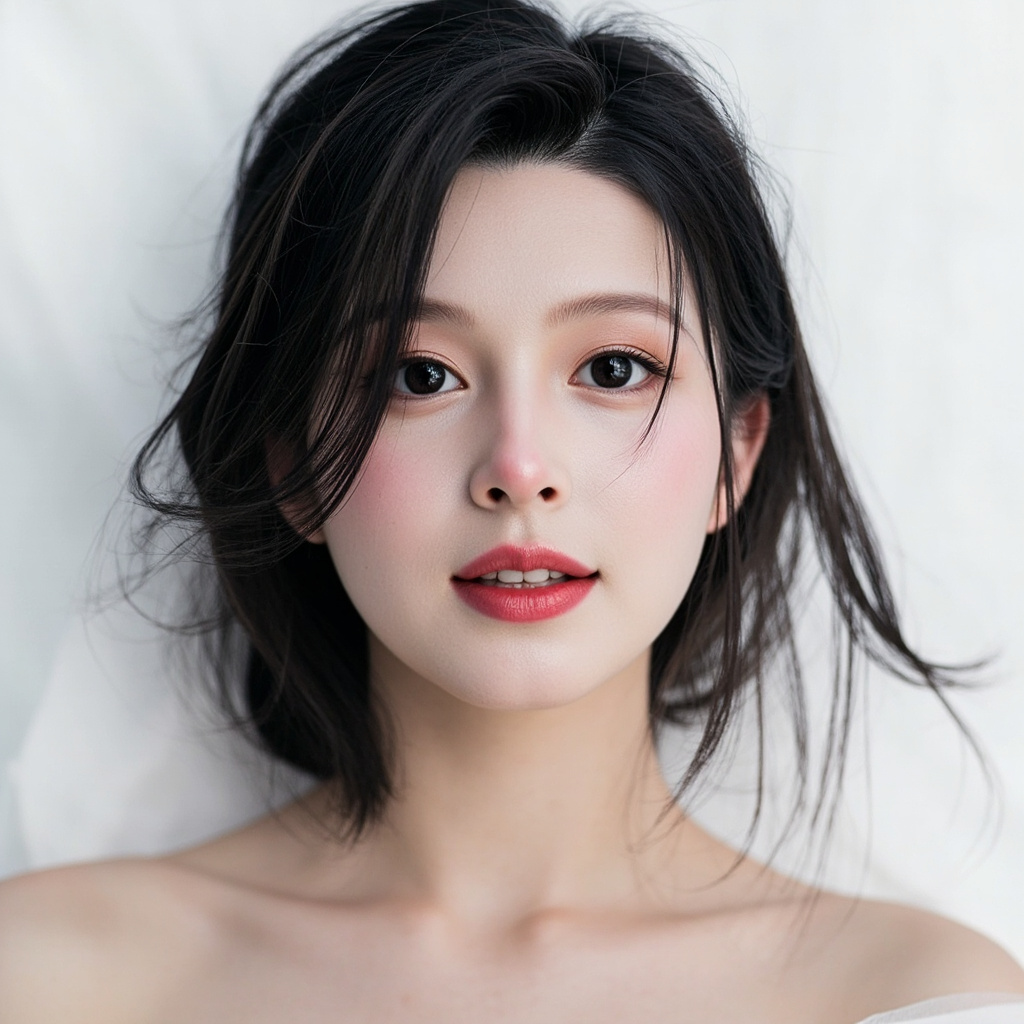
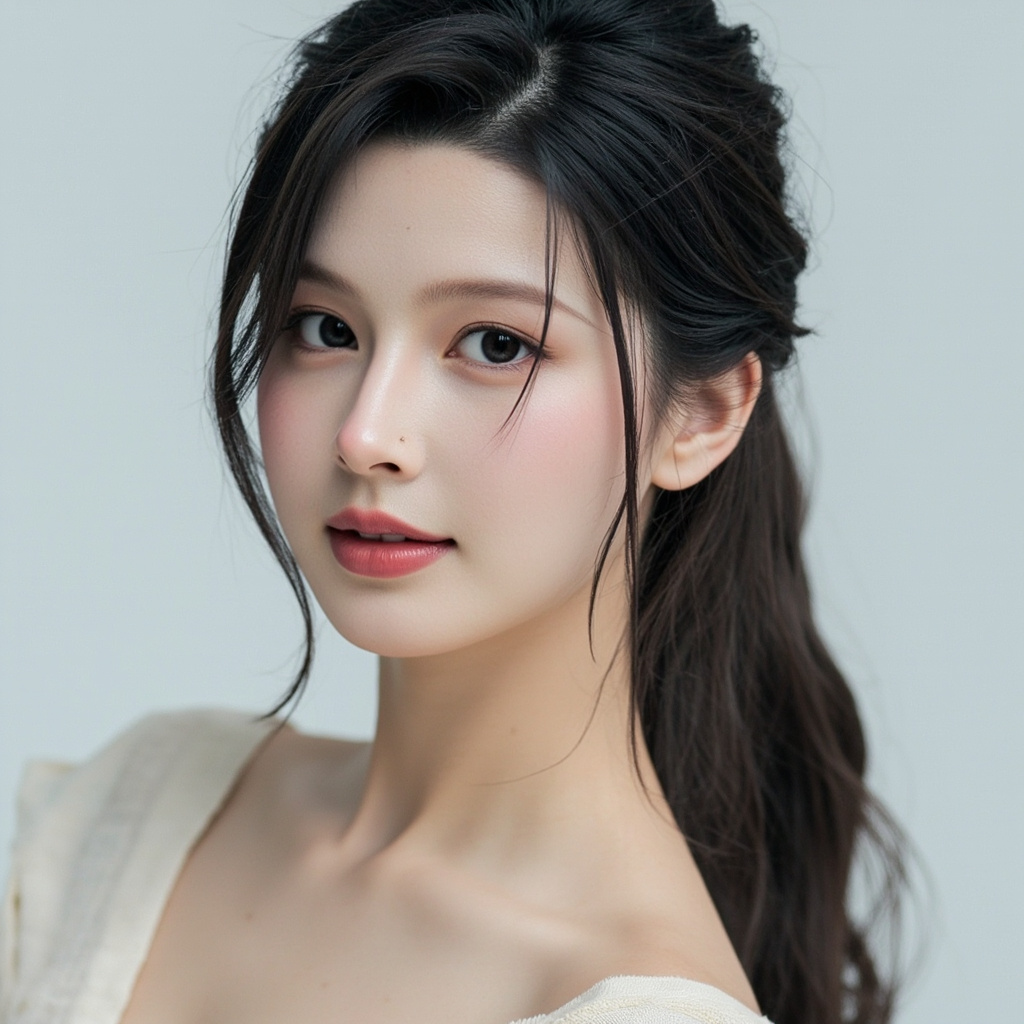
docs(docs): 同步最新产品逻辑与全身立绘图像资产
- docs: 更新根目录 README.md 与 docs/assets 图像资产，展示日系赛璐珞与二次元游戏CG双画风立绘及图生3D管线

diff --git a/README.md b/README.md
@@ -19,12 +19,12 @@
 
 ## 🌟 视觉呈现：从“蛋”到专属 3D 伙伴的诞生
 
-SpiritAgent 区别于传统桌面宠物或纯聊天插件的核心，在于伙伴拥有**从无到有的生成式诞生闭环**。首次安装时它是一颗温润呼吸的“蛋”，在完成一段温暖自然的对话后，系统将即时生成专属的 2D 肖像、全身立绘与高精 3D 骨骼模型：
+SpiritAgent 区别于传统桌面宠物或纯聊天插件的核心，在于伙伴拥有**从无到有的生成式诞生闭环**。首次安装时它是一颗温润呼吸的“蛋”；在完成一段自然温暖的对话后，系统即时生成专属半身像；随后并发生成多风格全身立绘样图供用户选择与微调；正面立绘确认后自动派生多视图并进入图生 3D 管线，赋予伙伴专属的 3D 骨骼模型与相册资产：
 
-| 1. 初始破壳「蛋」形态 | 2. 对话定制生成头像 | 3. 3D 建模锚点全身图 | 4. 专属精灵 3D / 相册立绘 |
-| :---: | :---: | :---: | :---: |
-| <img src="docs/assets/app_icon.png" width="160" alt="Egg Stage"/> | <img src="docs/assets/avatar_preview.jpg" width="160" alt="Avatar Preview"/> | <img src="docs/assets/seed_preview.jpg" width="160" alt="Seed Fullbody"/> | <img src="docs/assets/sprite_preview.png" width="160" alt="Sprite Preview"/> |
-| *安装初始·静候唤醒* | *性格与样貌确认* | *全身轮廓与骨骼锚点* | *常驻桌面·活灵活现* |
+| 1. 初始破壳「蛋」形态 | 2. 对话定制半身像 | 3. 全身立绘：日系赛璐珞 | 4. 全身立绘：二次元游戏CG | 5. 专属伙伴常驻桌面 |
+| :---: | :---: | :---: | :---: | :---: |
+| <img src="docs/assets/app_icon.png" width="130" alt="Egg Stage"/> | <img src="docs/assets/avatar_preview.jpg" width="130" alt="Avatar Preview"/> | <img src="docs/assets/cel_shading.jpg" width="130" alt="Cel Shading Style"/> | <img src="docs/assets/anime_game_cg.png" width="130" alt="Anime Game CG Style"/> | <img src="docs/assets/sprite_preview.png" width="130" alt="Sprite Preview"/> |
+| *安装初始·静候唤醒* | *性格与样貌确认* | *风格样图一（赛璐珞）* | *风格样图二（游戏CG）* | *常驻桌面·活灵活现* |
 
 ---
 
@@ -35,33 +35,38 @@ mindmap
   root((SpiritAgent))
     生成式定制
       一段对话从无到有
-      AI 绑骨 3D 模型生成
-      非破坏性 AI 换装系统
+      半身像与双画风全身立绘
+      图生 3D 自动绑骨与变形目标
+      非破坏性 AI 换装与材质热替
     桌面生命感
       Three.js 实时 3D 骨骼驱动
+      NPR 卡通 / PBR 渲染热切换
       空间自主漫游与边缘栖息
-      仪式性行走亲手操作
+      仪式性行走亲手触碰操作
     懂分寸的主动陪伴
-      长期与短期记忆管理
+      长期记忆混合检索与前置召回
       PostgreSQL Outbox 毫秒推送
-      三档打扰等级免打扰
+      权威三档打扰控制
+      双模式对话与拟人化节奏
     硬核生产力手脚
-      独立 Python Runner 沙箱
-      PTY 交互式终端与文件管理
-      动态 MCP 协议与浏览器控制
+      独立 Python 3.13 Runner 沙箱
+      PTY 交互终端与文件管理
+      动态 MCP 协议与浏览器自动化
+      系统环境多模态实时感知
     企业级安全防御
       云端/本地/Runner 三层物理隔离
       Runner 零凭证运行
-      反向 LLM 代理与防注入包围
+      反向 RPC 代理与命令静态审查
+      Windows Job Object 进程树绑定
 ```
 
 ### 1. 🎨 自然语言驱动的“无中生有”定制
-* **无需 3D 建模基础与外部资产**：你只需像和新朋友聊天一样描述名字、物种、性格、说话风格与外貌，AI 即可自动化完成概念图绘制、三维网格生成与骨骼绑定。
-* **非破坏性换装系统**：提供预设材质、AI PBR 纹理贴图（秒级热替）与几何服装装配，**无需重新耗时生成 3D 模型**即可自由随心换装。
-* **视觉永不空白（3 级降级兜底）**：`3D GLB 模型 ➔ 静态精灵相册 ➔ 算法正弦蛋形` 级联兜底，即便无网络或在生成空挡期，角色也时刻维持生动呼吸，绝不出现卡死或空白加载态。
+* **无需 3D 建模基础与外部资产**：你只需像和新朋友聊天一样描述名字、物种、性格、说话风格与外貌，AI 即可自动化完成半身像绘制、日系赛璐珞与二次元游戏CG双画风全身立绘生成、多视图派生与图生 3D 绑骨建模。
+* **非破坏性换装系统**：提供预设材质、AI PBR 纹理贴图（秒级热替）与几何服装装配，身体模型永不因换装重生，换装过程不中断正在播放的状态动画。
+* **视觉永不空白（3 级降级兜底）**：`3D GLB 模型 ➔ 静态精灵相册 ➔ 程序化蛋形` 级联兜底，即便无网络或在生成空挡期，角色也时刻维持生动呼吸，绝不出现卡死或空白加载态。
 
 ### 2. 🦾 拥有真实“手和脚”的桌面生产力（Runner + MCP）
-* **不只是聊天挂件，更是桌面超级 Agent**：搭载独立的本地 Python 3.13 Runner，支持交互式 PTY 终端、文件读写沙箱、Playwright 浏览器自动化。
+* **不只是聊天挂件，更是桌面超级 Agent**：搭载独立的本地 Python 3.13 Runner，支持交互式 PTY 终端、文件读写沙箱、Playwright 浏览器自动化与系统级环境感知。
 * **原生支持 MCP（Model Context Protocol）**：可无缝接入标准 MCP 服务生态，让伙伴调度各种本地工具帮你在桌面上真正解决编程、写脚本、查资料等复杂任务。
 
 ### 3. 🕊 细腻的桌面空间自主性与“仪式性行走”
@@ -69,14 +74,15 @@ mindmap
 * **仪式性行走（Ritual Walk）**：当让伙伴打开应用或点击按钮时，它会走/飞到目标窗口旁**亲手触碰执行**，将冷冰冰的后台 API 调用转变为充满生命力的沉浸式角色行为。
 
 ### 4. 🧠 懂分寸的主动陪伴与长期记忆
-* **主动关怀而非被动应答**：依托 PostgreSQL LISTEN/NOTIFY + Outbox 机制，伙伴会主动发起问候、定时提醒与情境化闲聊。
-* **严格的三档打扰控制（Active / Normal / Quiet）**：客户端权威感知当前用户状态（全屏游戏、沉浸式工作或专注窗口），自动切换免打扰档位，做到“需要时在身边，忙碌时不添乱”。
+* **主动关怀而非被动应答**：依托 PostgreSQL LISTEN/NOTIFY + Outbox 机制与夜间自主反思，伙伴会主动发起问候、定时提醒与情境化闲聊。
+* **严格的三档打扰控制（积极主动 / 常规 / 保持安静）**：客户端权威感知当前用户状态（全屏游戏、沉浸式工作或专注窗口），自动切换免打扰档位，做到“需要时在身边，忙碌时不添乱”。
+* **双模式对话与拟人化节奏**：支持 IM 式气泡交互与半双工语音通话模式；支持连发消息合并窗口与情绪/动作/文字/空间四通道解耦响应。
 
 ### 5. 🛡 工业级三模块物理解耦与安全隔离
 * **物理隔离架构**：
-  * **云端大脑 (Backend)**：负责大模型编排、长期记忆与资产生成，**绝不接触**用户本地操作系统；
-  * **桌面枢纽 (Client)**：Electron 原生凭证加密保护，作为安全网关路由双向流量；
-  * **本地手脚 (Runner)**：**零凭证**孤立运行，所有大模型调用经 Client 代理，彻底阻断 Prompt 注入与凭据泄露风险。
+  * **云端大脑 (Backend)**：负责大模型编排、长期记忆、角色定义与资产生成，**绝不接触**用户本地操作系统；渲染 Worker 在一次性沙箱容器中执行 3D 后处理；
+  * **桌面枢纽 (Client)**：Electron 原生凭证加密保护 (safeStorage)，作为唯一可信网关路由双向流量与管理 Runner 进程生命周期；
+  * **本地手脚 (Runner)**：**零凭证**孤立运行，所有大模型调用经 Client 代理，彻底阻断 Prompt 注入与凭据泄露风险；Windows Job Object 内核级绑定防孤儿进程。
 
 ---
 
@@ -86,8 +92,9 @@ mindmap
      ┌─────────────────────────────────────────────────────────────┐
      │                        Backend (云端)                       │
      │                   FastAPI + PostgreSQL + Worker             │
-     │  - 伙伴人格（角色定义 + 长期/短期记忆管理）                 │
-     │  - 专属形象资产生成编排（2D 头像 + 3D 建模 + 纹理换装）     │
+     │  - 伙伴人格（角色定义持久化 + 长期/短期记忆管理）           │
+     │  - 专属形象资产生成编排（半身像 + 多风格立绘 + 图生 3D）    │
+     │  - 渲染 Worker 沙箱执行（自动绑骨 + 变形目标注入 + 几何换装）│
      │  - LLM 编排与系统提示词装配 / Outbox 事件发布               │
      └─────────────────────────┬───────────────────────────────────┘
                                │ WebSocket 长连接（JWT 鉴权）
@@ -95,14 +102,17 @@ mindmap
      │                        Client (本地)                        │
      │             Electron 42 + React 19 + Three.js 引擎          │
      │  - 桌面精灵 3D 实时渲染、骨骼表情驱动与空间状态机           │
+     │  - NPR 卡通渲染 / PBR 真实感渲染热切换                      │
      │  - 凭证安全落盘 (safeStorage) / 本地 IPC 枢纽中转            │
+     │  - 权威打扰档位感知与计算 / 独立 3D 调试器 (pnpm clip)      │
      └─────────────────────────┬───────────────────────────────────┘
                                │ 本地 OS IPC（命名管道 / UDS + 握手 Token）
      ┌─────────────────────────▼───────────────────────────────────┐
      │                        Runner (本地)                        │
      │                    Python 3.13 隔离进程                     │
      │  - 本地环境执行器（PTY 交互终端、文件沙箱、浏览器控制）     │
-     │  - 动态 MCP 客户端协议集成 / 本地工具安全扫描               │
+     │  - 动态 MCP 客户端协议集成 / 本地工具安全扫描与审查         │
+     │  - 零凭证孤立运行 / 反向 RPC 代理中转                       │
      └─────────────────────────────────────────────────────────────┘
 ```
 
